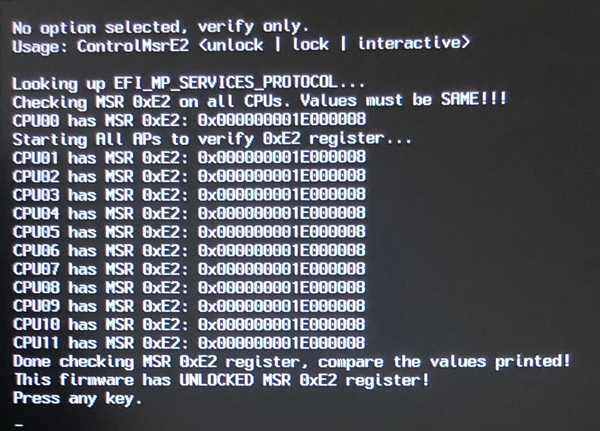
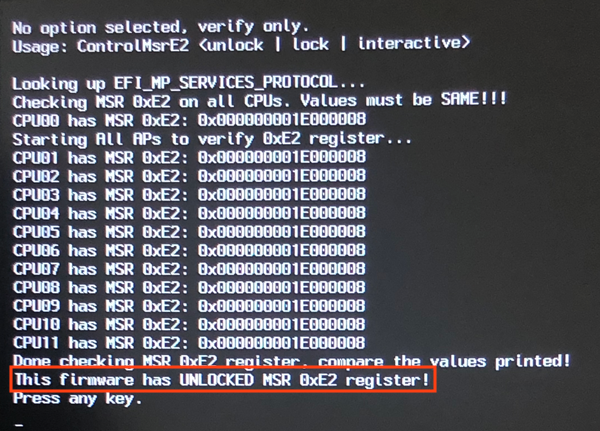
Update README

Changed region(s): [[0.0, 0.8445, 0.75, 0.935]]

diff --git a/README.md b/README.md
@@ -95,7 +95,7 @@ The i7 9750h CPU supports disabling CFG Lock, but it's not disabled by default i
 7. Once this has loaded, enter **setup_var_3 0x5C4 0x00** to disable CFG lock. You can disable Undervolting lock now too, following step 7 from the **UNDERVOLTING** section.
 8. Enter **reboot** to exit and restart your computer.
 
-
+![](https://github.com/leocg/Hackintosh-Dell-G5-5590/raw/master/UTIL/SCREENSHOTS%20PROOFS/DOCS/CFG-Lock-Disabled.png)
 
 #### UNDERVOLTING (optional):
 
